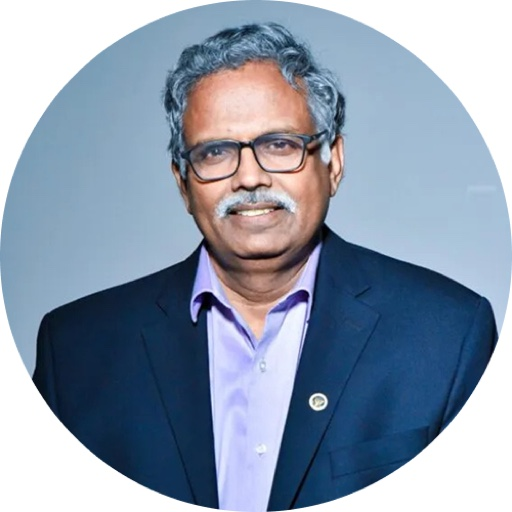
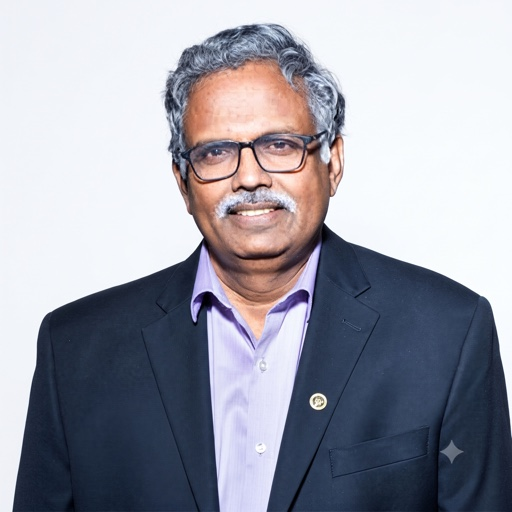
Use higher-resolution studio photo for Shankar Rachakonda
The previous file was a 500px headshot pre-cropped to a circle on a light
blue field, so the circle's edge showed as an arc in the top corners of the
4:5 frame. The replacement is a 2048px full-bleed square on a white studio
backdrop, normalised to the same 512x512 as the rest of the set — the arc is
gone and the duotone renders it edge to edge.

diff --git a/logs/PROJECT_LOG.md b/logs/PROJECT_LOG.md
@@ -673,3 +673,13 @@
 **Note for future photo drops:** don't infer identity from supply order. Ask for captioned photos, or verify against a named source file.
 
 **Status:** ✅ SUCCESS — mapping confirmed, no open items.
+
+## 2026-09-22 — Leadership section: Shankar Rachakonda photo upgraded
+
+**Change:** `public/images/leadership/shankar-rachakonda.jpg` replaced with a 2048×2048 studio original (same subject, better source), re-normalised to 512×512 JPEG q88 like the rest of the set.
+
+**Why it matters:** the previous file was a 500px headshot pre-cropped to a circle on a light blue field, so the circular edge showed as an arc in the top corners of the 4:5 frame. The new source is a full-bleed square on a white studio backdrop — the arc is gone and the duotone and vignette now render it as a clean edge-to-edge portrait.
+
+**Verification:** set still 10 files, all distinct by MD5. Screenshots re-captured; the card reads at the same value as its neighbours rather than brighter.
+
+**Status:** ✅ SUCCESS
